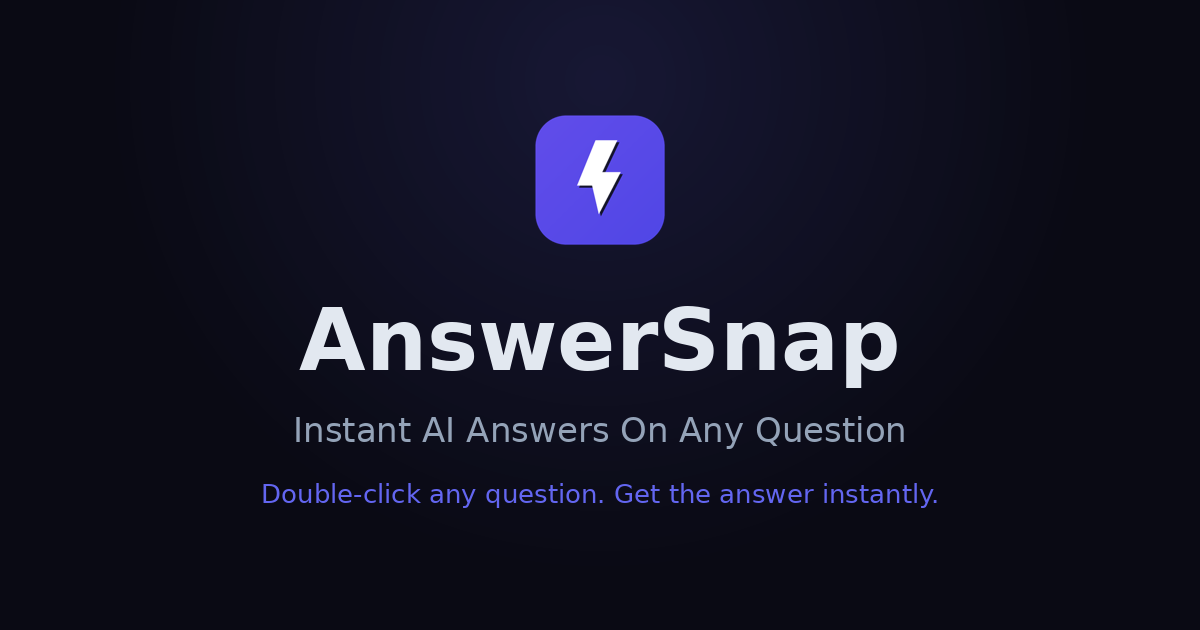
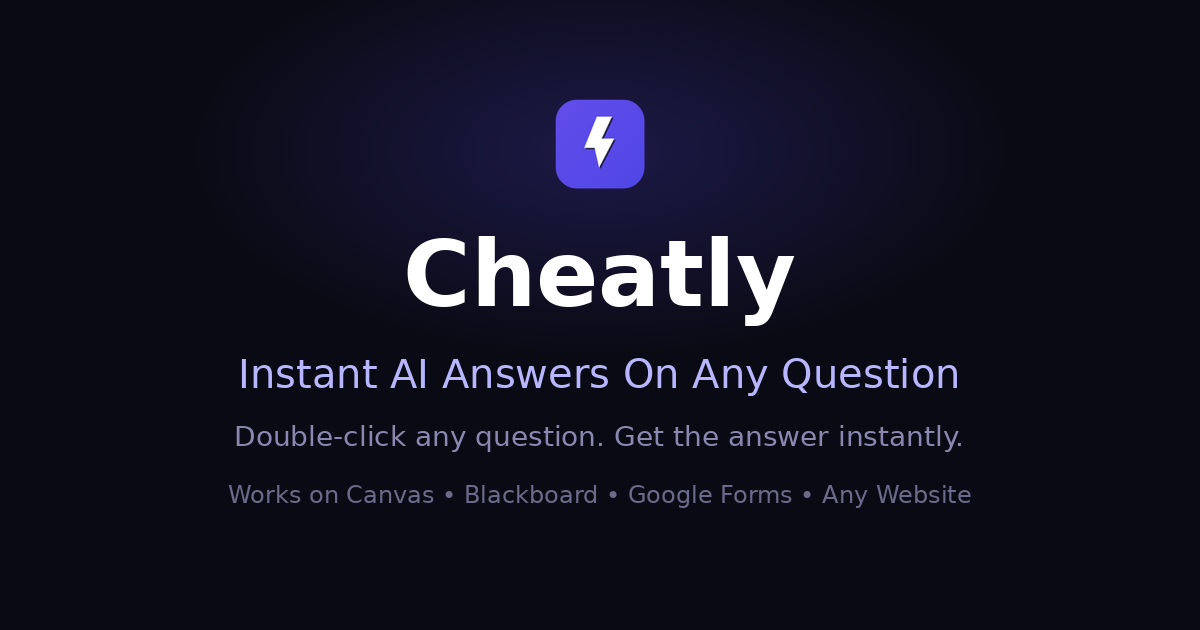
Rebrand landing page from AnswerSnap to Cheatly

Changed region(s): [[0.185, 0.1508, 0.8017, 0.6333], [0.185, 0.754, 0.8017, 0.8143], [0.185, 0.6635, 0.8017, 0.7238]]

diff --git a/landing/index.html b/landing/index.html
@@ -3,14 +3,14 @@
 <head>
   <meta charset="UTF-8" />
   <meta name="viewport" content="width=device-width, initial-scale=1.0" />
-  <title>AnswerSnap — Instant AI Answers On Any Question</title>
+  <title>Cheatly — Instant AI Answers On Any Question</title>
   <meta name="description" content="Double-click any question on your screen and get the answer instantly. Works on Canvas, Blackboard, Google Forms, and any website. AI-powered Chrome extension." />
   <meta name="theme-color" content="#0a0a14" />
 
   <!-- Open Graph -->
   <meta property="og:type" content="website" />
-  <meta property="og:site_name" content="AnswerSnap" />
-  <meta property="og:title" content="AnswerSnap — Instant AI Answers On Any Question" />
+  <meta property="og:site_name" content="Cheatly" />
+  <meta property="og:title" content="Cheatly — Instant AI Answers On Any Question" />
   <meta property="og:description" content="Double-click any question on your screen and get the answer instantly. Works on Canvas, Blackboard, Google Forms, and any website." />
   <meta property="og:url" content="https://cheatly.xyz/" />
   <meta property="og:image" content="https://cheatly.xyz/og-image.png" />
@@ -19,7 +19,7 @@
 
   <!-- Twitter -->
   <meta name="twitter:card" content="summary_large_image" />
-  <meta name="twitter:title" content="AnswerSnap — Instant AI Answers On Any Question" />
+  <meta name="twitter:title" content="Cheatly — Instant AI Answers On Any Question" />
   <meta name="twitter:description" content="Double-click any question on your screen and get the answer instantly. Works on any website." />
   <meta name="twitter:image" content="https://cheatly.xyz/og-image.png" />
 
@@ -34,8 +34,8 @@
   <nav class="nav">
     <div class="container nav-inner">
       <a href="#" class="nav-logo">
-        <img src="icon48.png" alt="AnswerSnap logo" width="28" height="28" />
-        <span>AnswerSnap</span>
+        <img src="icon48.png" alt="Cheatly logo" width="28" height="28" />
+        <span>Cheatly</span>
       </a>
       <div class="nav-links">
         <a href="#features">Features</a>
@@ -82,7 +82,7 @@
   <section id="features" class="features">
     <div class="container">
       <h2>Ace Every Question</h2>
-      <p class="section-subtitle">AnswerSnap uses AI vision to analyze any question type</p>
+      <p class="section-subtitle">Cheatly uses AI vision to analyze any question type</p>
       <div class="features-grid">
         <div class="feature-card">
           <div class="feature-icon">
@@ -134,7 +134,7 @@
   <section id="demo" class="demo">
     <div class="container">
       <h2>Try It — Double Click a Question</h2>
-      <p class="section-subtitle">See how AnswerSnap identifies and answers different question types</p>
+      <p class="section-subtitle">See how Cheatly identifies and answers different question types</p>
 
       <div class="demo-grid">
         <!-- Multiple Choice Demo -->
@@ -269,7 +269,7 @@
   <section class="testimonials">
     <div class="container">
       <h2>Loved by Students</h2>
-      <p class="section-subtitle">What students are saying about AnswerSnap</p>
+      <p class="section-subtitle">What students are saying about Cheatly</p>
       <div class="testimonials-grid">
         <div class="testimonial-card">
           <p class="testimonial-quote">"Finished my chem homework in 10 minutes instead of 2 hours. This thing is unreal."</p>
@@ -316,24 +316,24 @@
       <h2>Frequently Asked Questions</h2>
       <div class="faq-list">
         <details class="faq-item">
-          <summary>What types of questions can AnswerSnap answer?</summary>
-          <p>AnswerSnap uses advanced AI vision to analyze screenshots, so it can handle virtually any question type: multiple choice, multiple select, fill-in-the-blank, matching, short answer, essay questions, math problems, and more.</p>
+          <summary>What types of questions can Cheatly answer?</summary>
+          <p>Cheatly uses advanced AI vision to analyze screenshots, so it can handle virtually any question type: multiple choice, multiple select, fill-in-the-blank, matching, short answer, essay questions, math problems, and more.</p>
         </details>
         <details class="faq-item">
-          <summary>How fast is AnswerSnap?</summary>
+          <summary>How fast is Cheatly?</summary>
           <p>Answers typically appear in 2-5 seconds, depending on the complexity of the question and your internet speed. The AI processes a screenshot of your screen and returns the answer almost instantly.</p>
         </details>
         <details class="faq-item">
           <summary>What platforms does it work on?</summary>
-          <p>AnswerSnap works on any website that runs in Chrome — Canvas, Blackboard, Google Forms, Quizlet, Coursera, edX, and any other web-based platform.</p>
+          <p>Cheatly works on any website that runs in Chrome — Canvas, Blackboard, Google Forms, Quizlet, Coursera, edX, and any other web-based platform.</p>
         </details>
         <details class="faq-item">
           <summary>Do I need my own API key?</summary>
-          <p>No! AnswerSnap works out of the box. We handle all the AI processing on our end so you can just install and start using it immediately — no setup required.</p>
+          <p>No! Cheatly works out of the box. We handle all the AI processing on our end so you can just install and start using it immediately — no setup required.</p>
         </details>
         <details class="faq-item">
           <summary>Is my data secure?</summary>
-          <p>AnswerSnap sends screenshots to our secure API for AI processing. No data is stored permanently. Screenshots are analyzed in real-time and immediately discarded.</p>
+          <p>Cheatly sends screenshots to our secure API for AI processing. No data is stored permanently. Screenshots are analyzed in real-time and immediately discarded.</p>
         </details>
         <details class="faq-item">
           <summary>How do the display modes work?</summary>
@@ -346,7 +346,7 @@
   <!-- Footer -->
   <footer class="footer">
     <div class="container">
-      <p>&copy; 2025 AnswerSnap. Built with AI.</p>
+      <p>&copy; 2025 Cheatly. Built with AI.</p>
     </div>
   </footer>
 

diff --git a/landing/script.js b/landing/script.js
@@ -1,5 +1,5 @@
 /**
- * AnswerSnap — Landing Page Interactivity
+ * Cheatly — Landing Page Interactivity
  */
 
 // Demo cards: double-click to reveal answers

diff --git a/landing/style.css b/landing/style.css
@@ -1,4 +1,4 @@
-/* AnswerSnap — Landing Page Styles */
+/* Cheatly — Landing Page Styles */
 
 :root {
   --bg-primary: #0a0a14;
